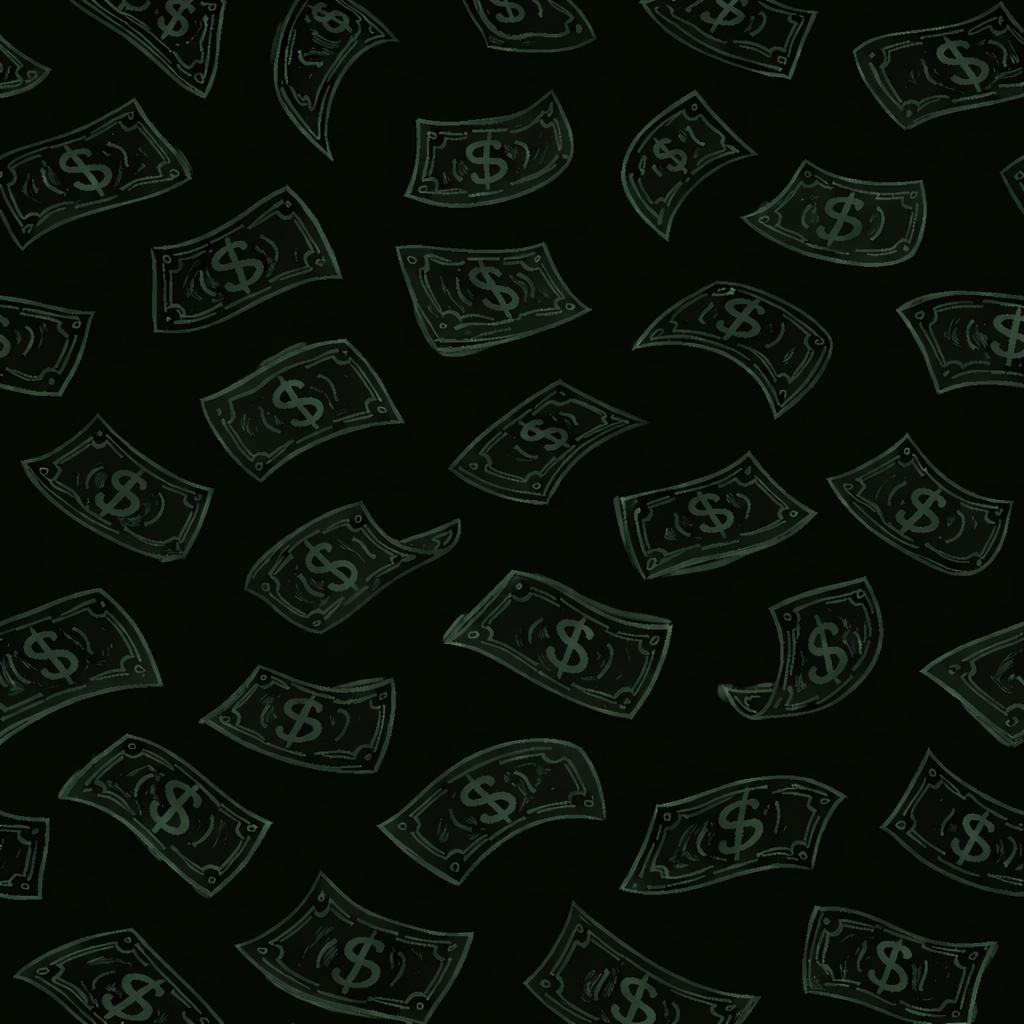
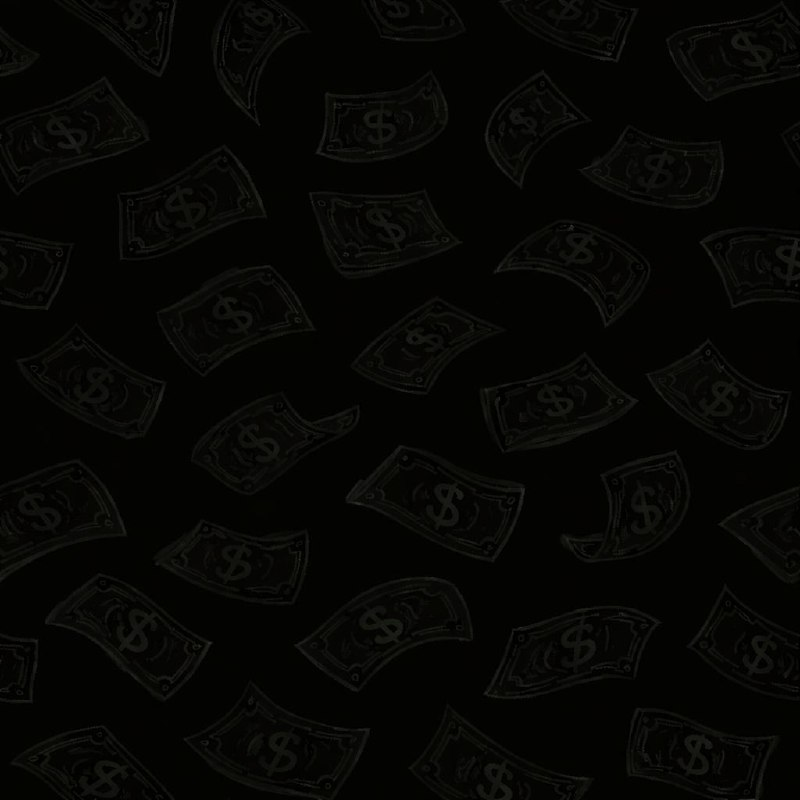
ui: apply new dark money background image and make dark screen roots transparent

diff --git a/src/screens/TransactionsScreen.tsx b/src/screens/TransactionsScreen.tsx
@@ -337,7 +337,7 @@ export function TransactionsScreen(props: Props) {
 
 const styles = StyleSheet.create({
   screenContainer: { flex: 1 },
-  screenDark: { backgroundColor: '#0f1a14' },
+  screenDark: { backgroundColor: 'transparent' },
   panelDark: { backgroundColor: '#15251c', borderColor: '#2e4d3b' },
   contentContainer: { paddingHorizontal: 16, gap: 10, paddingTop: 8, paddingBottom: 88 },
   topRow: { flexDirection: 'row', justifyContent: 'space-between', alignItems: 'center' },

diff --git a/src/screens/BudgetingScreen.tsx b/src/screens/BudgetingScreen.tsx
@@ -212,7 +212,7 @@ export function BudgetingScreen({ darkMode, currency, budgets, totals, budgetPro
 
 const styles = StyleSheet.create({
   screenContainer: { flex: 1 },
-  screenDark: { backgroundColor: '#0f1a14' },
+  screenDark: { backgroundColor: 'transparent' },
   contentContainer: { flex: 1, paddingHorizontal: 16, gap: 10, paddingTop: 8, paddingBottom: 80 },
   entriesScrollWrap: { flex: 1, position: 'relative' },
   entriesScroll: { flex: 1 },

diff --git a/src/screens/SettingsScreen.tsx b/src/screens/SettingsScreen.tsx
@@ -39,7 +39,7 @@ export function SettingsScreen({ currency, onCurrencyChange, darkMode, onDarkMod
 
 const styles = StyleSheet.create({
   container: { flex: 1, backgroundColor: '#eaffef' },
-  containerDark: { backgroundColor: '#0f1a14' },
+  containerDark: { backgroundColor: 'transparent' },
   content: { padding: 16, gap: 12 },
   title: { fontSize: 20, fontWeight: '800', color: '#156530' },
   textDark: { color: '#d6f5df' },

diff --git a/App.tsx b/App.tsx
@@ -441,7 +441,7 @@ export default function App() {
 const styles = StyleSheet.create({
   safeArea: { flex: 1, backgroundColor: '#eaffef' },
   safeAreaDark: { backgroundColor: '#0f1a14' },
-  darkMoneyBgImage: { opacity: 0.4 },
+  darkMoneyBgImage: { opacity: 0.55 },
   page: { flex: 1 },
   tabDots: {
     flexDirection: 'row',
